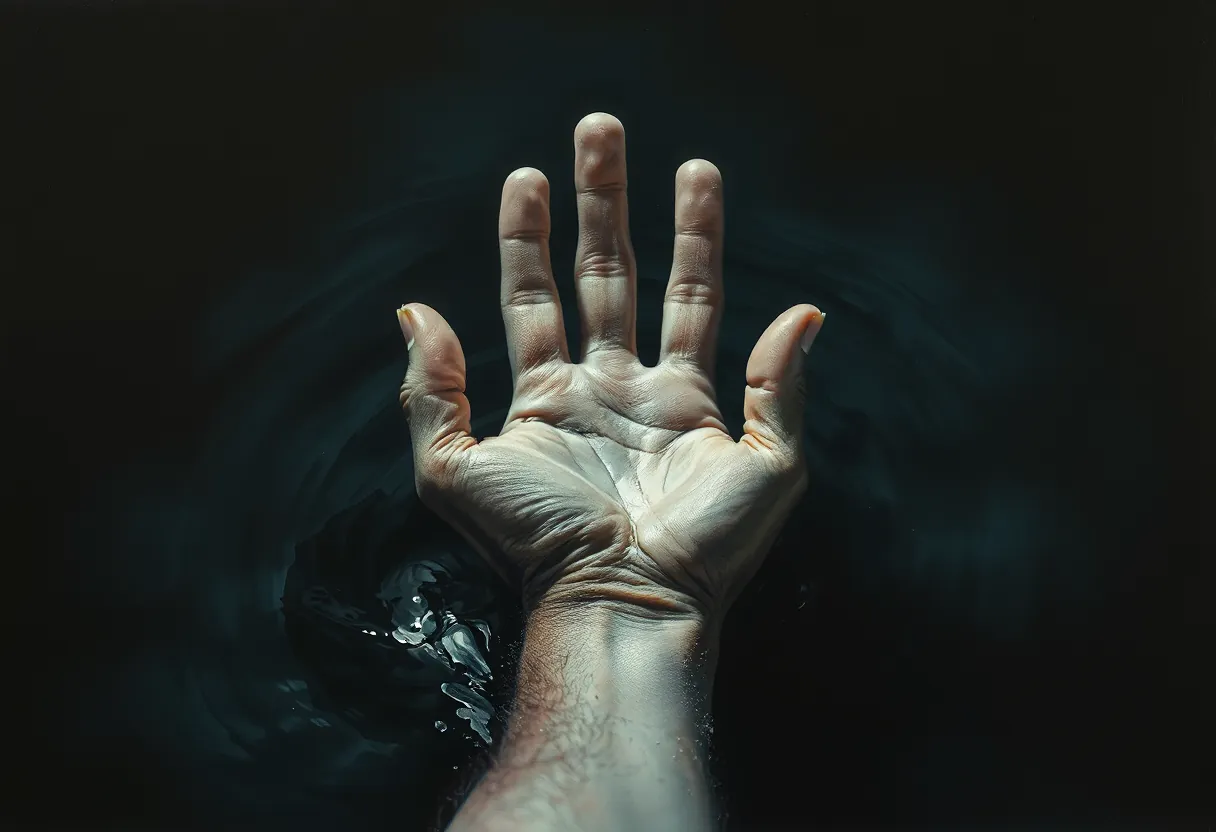
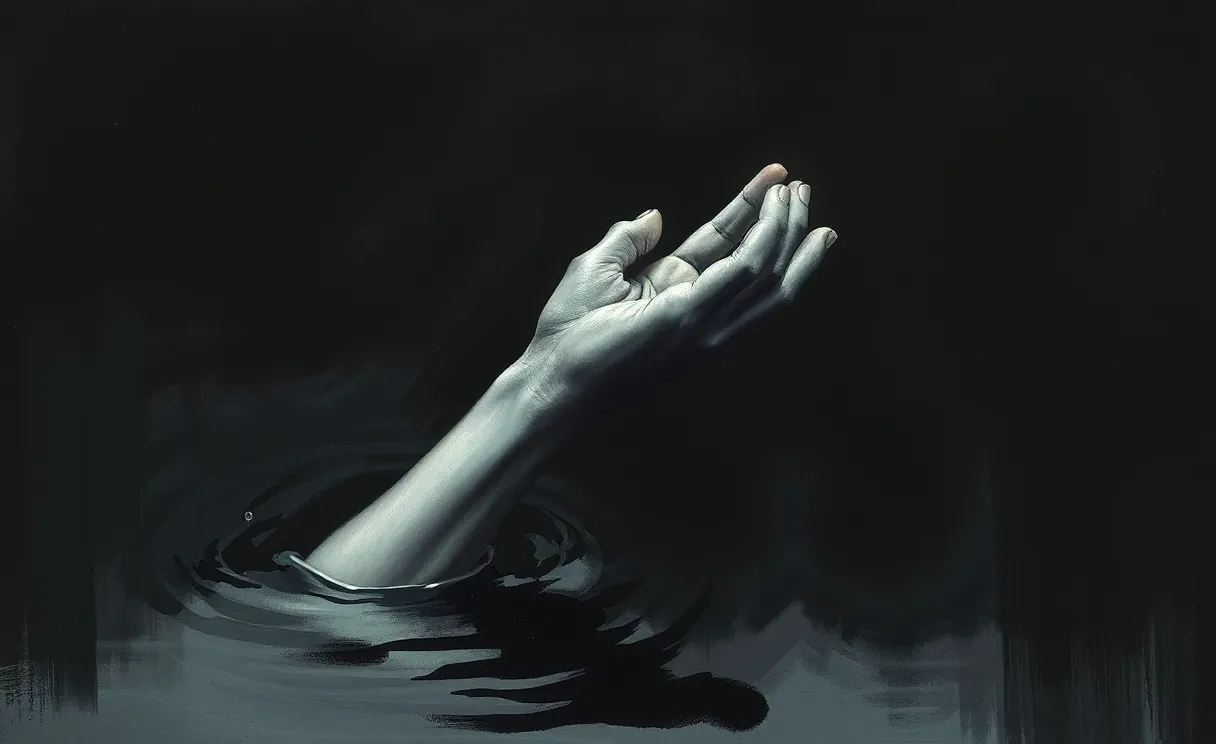
Eleven Paces round 3: the boy goes into the dark, his line over a painting; a new grey hand; no rock in the fire
Door 2: the boy runs past the edge of the light and the dark takes him; his
line is a voice from the dark over a painting of him running off barefoot
(Draw Things, no face), with the empty dark underneath if it can't load. The
reaching hand is a new painting, grey and painted, cropped clear of a fake
signature. The door's cells count as wall for the cave rock (def.solid), so
no shelf or drip of rock juts into the flames, and the fire's backing fades
from dark red to black so a low fire leaves no flat red panel.

Claude-Session: https://claude.ai/code/session_017vywRCZFCy2NNENDQ1fNkb

Changed region(s): [[0.0, 0.1237, 0.8438, 1.0], [0.9062, 0.8656, 0.9688, 1.0], [0.2188, 0.6801, 0.25, 0.711]]

diff --git a/index.html b/index.html
@@ -6095,7 +6095,7 @@ let t3tile=null;function t3tileTex(){if(t3tile)return t3tile;const cv=document.c
 /* ---- the diorama for each map ---- */
 function t3cave(Vb){const mp=Vb.mp,W=mp.W,H=mp.H,S=seeded(mp.key.length*977+31),rr=(a,b)=>a+(b-a)*S(),pk=a=>a[Math.floor(S()*a.length)],Q=T3Q.hi?1:.5,lot=p=>S()<p*Q,V3=(x,y,z)=>new THREE.Vector3(x,y,z);
   const stone=[],floor=[],roots=[],glow=[],ash=[],deep=[],keep=[],grit=[],tips=[];
-  const wall=(x,y)=>"#".includes(mp.c(x,y)),open=(x,y)=>!wall(x,y)&&x>=0&&y>=0&&x<W&&y<H;
+  const wall=(x,y)=>(mp.def.solid||"#").includes(mp.c(x,y)),open=(x,y)=>!wall(x,y)&&x>=0&&y>=0&&x<W&&y<H; // def.solid: cells that count as wall here (the door of fire, so no rock juts into the flames)
   t3w_cutSetup(Vb);
   const od=t3v_openDist(mp,4);
   for(let y=-5;y<H+5;y++)for(let x=-5;x<W+5;x++){const ch=(x<0||y<0||x>=W||y>=H)?"#":mp.c(x,y),c=Vb.cell(x,y);
@@ -12177,7 +12177,7 @@ Object.assign(MON,{
   // only for the cutscenes' captions (never on a board)
   boy:{name:"The boy",ini:"b",icon:"boy",hex:"#e0b98e",ac:10,hp:1,speed:6,init:0,size:1,sv:{},atk:[]}});
 Object.assign(CAVE_COST,{"4":1,"5":1,"6":1,"7":1,"8":1,"9":1});
-MAPS.idoor={kind:"idoor",light:[6,1],torches:[],rows:(()=>{const R=["#############","####FFFFF####","###.......###","##.........##","#...........#","#...........#","#...........#","#...........#","#...........#","##.........##","###.......###","####.....####","#############"];
+MAPS.idoor={kind:"idoor",light:[6,1],torches:[],solid:"#F",rows:(()=>{const R=["#############","####FFFFF####","###.......###","##.........##","#...........#","#...........#","#...........#","#...........#","#...........#","##.........##","###.......###","####.....####","#############"];
   // the black water rings out from the door: each square's digit is the round the water reaches it (9: the far end and beyond)
   return R.map((r,y)=>[...r].map((c,x)=>c!=="."?c:String(Math.min(9,Math.max(4-x,x-8,y-1,1)))).join(""));})()};
 T3_LOOK.idoor=Object.assign({},T3_LOOK.ifire,{fog:0x08090b,fogK:[1.05,2.5],bg:["#2a1208","#0a0706","#020203"],sky:0x56606c,ground:0x0d0c0b,fill:[.42,.85],
@@ -12341,7 +12341,7 @@ async function hvFace(o={}){const d3=!!(V&&B),st=hvU("stig"),fu=hvU("future");if
     {cam:{from:{at:Sx().add(new THREE.Vector3(.32,.3,.55)),yaw:1.2,pitch:.15,dist:1.4},to:{at:Sx().add(new THREE.Vector3(.32,.32,.55)),yaw:1.05,pitch:.12,dist:1.2},ms:3000,fov:30,tall:{fov:44}}},
     {at:S=>{B.sc.fl=4;},cam:{from:{pos:Sx().add(new THREE.Vector3(-.95,1.25,1.45)),look:hvAt("future",.7)},to:{pos:Sx().add(new THREE.Vector3(-.85,1.2,1.25)),look:hvAt("future",.72)},ms:3200,fov:32,tall:{fov:46}}},
     {at:S=>{B.sc.fl=5;S.shake(.035);hvDream(S,.7,800);},cam:{from:{pos:Sx().add(new THREE.Vector3(-.85,1.2,1.25)),look:hvAt("future",.72)},to:{pos:Sx().add(new THREE.Vector3(-.78,1.16,1.1)),look:hvAt("future",.72)},ms:3000,fov:[32,26],roll:.03,tall:{fov:[46,38]}}},
-    {at:S=>{const m=hvM("future"),s=hvM("stig");if(m&&s){const d=s.pos.clone().sub(m.pos).setY(0).normalize();m.lunge={dir:d,t:performance.now(),dur:1100,small:true};}S.flash("#bfe6ff55");hvSnd("heartbeat-one");B.sc.fl=1;hvPic(S,"stig-reach",{zoom:1.12,tone:{g:.85,b:.72,c:1.1}});},
+    {at:S=>{const m=hvM("future"),s=hvM("stig");if(m&&s){const d=s.pos.clone().sub(m.pos).setY(0).normalize();m.lunge={dir:d,t:performance.now(),dur:1100,small:true};}S.flash("#bfe6ff55");hvSnd("heartbeat-one");B.sc.fl=1;hvPic(S,"stig-reach",{zoom:1.1,pos:"55% 40%"});},
       cam:{from:{at:hvAt("future",.6,0,.5),yaw:1.57,pitch:.2,dist:3.2},to:{at:hvAt("future",.6,0,.5),yaw:1.45,pitch:.16,dist:2.7},ms:3200,fov:36,tall:{fov:52}}}]
   :[{at:()=>hvSnd("fire-still")},{},{at:()=>hvSnd("heartbeat-two")},{},{},{},{},{},{at:()=>hvSnd("heartbeat-one")}];
   plan.extra=hvDrift();
@@ -12378,16 +12378,14 @@ async function hvDoorCut(n,o={}){const d3=!!V,gid=k=>hvU(k),boy=()=>V&&V.hvBoy;
     {at:S=>{B.sc.fl=1;S.tween(3200,k=>{if(B)B.sc.warm=k;},null);hvDream(S,.6,2500);},cam:{from:{at:hvAt("future",.42),yaw:F2+.45,pitch:.12,dist:2},to:{at:hvAt("future",.44),yaw:F2+.3,pitch:.1,dist:1.7},ms:3400,fov:30,tall:{fov:44}}},
     {at:S=>{S.shake(.02);},cam:{from:{at:hvAt("future",.48),yaw:F2+.08,pitch:.08,dist:1.6},to:{at:hvAt("future",.5),yaw:F2,pitch:.06,dist:1.35},ms:3600,fov:[30,26],tall:{fov:[44,38]}}},
     {at:S=>{const u=gid("future");if(u){u.gone=true;renderTokens();}hvSnd("silence");},cam:{from:{at:hvC(8,3,.1),yaw:-.3,pitch:.5,dist:2.4},to:{at:hvC(8,3,.1),yaw:-.2,pitch:.6,dist:2.1},ms:3400,fov:34}},
-    // he lets go and runs: on a wide screen across the frame from Stig's side, Stig's arm in the foreground; on a phone over his shoulder, down the line the boy runs.
-    // He stops at the edge of the light with his back to us, and at the end looks back.
-    {at:S=>{const b=boy();if(b){b.look=null;b.mode="run";b.runSp=2.1;b.to=hvC(9.8,4.2);setTimeout(()=>{const sm=hvM("stig");if(!S.over&&b&&sm)b.look=Math.atan2(sm.pos.x-b.g.position.x,sm.pos.z-b.g.position.z);},3400);}
+    // he lets go and runs: out from behind Stig (Stig's shoulder in the foreground), up the line and past the edge of the light; the dark takes him
+    {at:S=>{const b=boy();if(b){b.look=null;b.mode="run";b.runSp=2.1;b.to=hvC(10.7,3.3);setTimeout(()=>{if(!S.over&&b)b.want=0;},2300);}
         hvSnd("heartbeat-one");setTimeout(()=>{if(!S.over)hvSnd("boy-run");},350);},
-      cam:{from:{pos:hvC(5.55,6.25,.6),look:hvC(7.2,4.5,.42)},to:{pos:hvC(5.6,6.15,.58),look:hvC(7.35,4.5,.42)},ms:4600,fov:36,
-        tall:{from:{pos:hvC(4.9,5.42,1.05),look:hvC(9.8,4.2,.3)},to:{pos:hvC(5.1,5.38,1),look:hvC(9.9,4.15,.32)},fov:52}}},
-    // his line, from the edge of the dark: wide, from behind Stig, the boy small and lit only at the edge; he goes on the last words
-    {at:S=>{const b=boy(),sm=hvM("stig"),P=hvC(9.8,4.2);if(b){if(b.g.position.distanceTo(P.setY(.03))>.3)b.g.position.copy(P);b.mode="stay";if(sm)b.look=Math.atan2(sm.pos.x-b.g.position.x,sm.pos.z-b.g.position.z);
-        setTimeout(()=>{if(S.over||!b)return;b.look=null;b.mode="run";b.runSp=1.7;b.to=hvC(10.6,3.2);setTimeout(()=>{if(b)b.want=0;},1500);},3300);}},
-      cam:{from:{pos:hvC(5,5.45,.95),look:hvC(9.8,4.2,.35)},to:{pos:hvC(5.35,5.38,.9),look:hvC(9.8,4.2,.35)},ms:3800,fov:30,tall:{fov:44}}},
+      cam:{from:{pos:hvC(5.55,6.25,.6),look:hvC(7.2,4.5,.42)},to:{pos:hvC(5.6,6.15,.58),look:hvC(7.5,4.3,.42)},ms:4600,fov:36,
+        tall:{from:{pos:hvC(4.9,5.42,1.05),look:hvC(9.8,4.2,.3)},to:{pos:hvC(5.1,5.38,1),look:hvC(10.2,3.9,.32)},fov:52}}},
+    // his line is a voice from the dark where he went: the painting of him running off (the camera eases toward the empty edge of the light underneath, if it can't load)
+    {at:S=>{const b=boy();if(b){b.want=0;b.mode="stay";}hvPic(S,"stig-boy",{zoom:1.06});},
+      cam:{from:{pos:hvC(5.2,5.8,.85),look:hvC(10.2,3.9,.35)},to:{pos:hvC(5.85,5.75,.8),look:hvC(10.4,3.8,.35)},ms:4200,fov:32,ease:"soft",tall:{fov:46}}},
     {at:S=>{hvVeil(S,"hv-dry");hvPic(S,"stig-dry",{zoom:1.06});},hold:4200},
     {at:S=>hvSnd("heartbeat-one"),hold:3000,black:true}]
   :[{},{},{},{},{at:()=>hvSnd("silence")},{at:()=>hvSnd("heartbeat-one")},{},{at:S=>hvVeil(S,"hv-dry"),hold:3600},{hold:3000,black:true}];
@@ -12583,7 +12581,9 @@ function t3dressDoor(Vb){const mp=Vb.mp,W=mp.W,H=mp.H,K=t3i_kit(Vb,1111),{rr,pk,
   if(sand.length)Vb.root.add(t3mesh(t3merge(sand),t3vmat({roughness:1}),{recv:true}));
   // the fire itself: a roar that hardly moves, in sheets one behind another, and tongues along the foot of it
   const fire=hvFireCurtain(Vb,cx,cz,wd,hi);
-  const back=new THREE.Mesh(new THREE.PlaneGeometry(wd,3),new THREE.MeshBasicMaterial({color:0x2a0a02}));back.position.set(cx,1.5,cz-.12);Vb.root.add(back);
+  // behind the flames: hot dark red at the foot, going to black at the lintel, so a low (listening) fire leaves no flat red panel
+  const bg=new THREE.PlaneGeometry(wd,3),bc=[];for(let i=0;i<bg.attributes.position.count;i++){const top=bg.attributes.position.getY(i)>0;bc.push(...(top?[.003,.001,0]:[.035,.006,.001]));}
+  bg.setAttribute("color",new THREE.Float32BufferAttribute(bc,3));const back=new THREE.Mesh(bg,new THREE.MeshBasicMaterial({vertexColors:true}));back.position.set(cx,1.5,cz-.12);Vb.root.add(back);
   const tongues=[];for(let i=0;i<5;i++)tongues.push(t3i_flame(Vb,cx+(i-2)*wd/5,.25,cz+.3,.55+.1*(i%2)));
   const pool=t3v_pool(Vb,cx,cz+2,9,0xff7a2a,.4);
   // steam where the black water meets the heat

diff --git a/source/chronicle.html b/source/chronicle.html
@@ -6061,7 +6061,7 @@ let t3tile=null;function t3tileTex(){if(t3tile)return t3tile;const cv=document.c
 /* ---- the diorama for each map ---- */
 function t3cave(Vb){const mp=Vb.mp,W=mp.W,H=mp.H,S=seeded(mp.key.length*977+31),rr=(a,b)=>a+(b-a)*S(),pk=a=>a[Math.floor(S()*a.length)],Q=T3Q.hi?1:.5,lot=p=>S()<p*Q,V3=(x,y,z)=>new THREE.Vector3(x,y,z);
   const stone=[],floor=[],roots=[],glow=[],ash=[],deep=[],keep=[],grit=[],tips=[];
-  const wall=(x,y)=>"#".includes(mp.c(x,y)),open=(x,y)=>!wall(x,y)&&x>=0&&y>=0&&x<W&&y<H;
+  const wall=(x,y)=>(mp.def.solid||"#").includes(mp.c(x,y)),open=(x,y)=>!wall(x,y)&&x>=0&&y>=0&&x<W&&y<H; // def.solid: cells that count as wall here (the door of fire, so no rock juts into the flames)
   t3w_cutSetup(Vb);
   const od=t3v_openDist(mp,4);
   for(let y=-5;y<H+5;y++)for(let x=-5;x<W+5;x++){const ch=(x<0||y<0||x>=W||y>=H)?"#":mp.c(x,y),c=Vb.cell(x,y);
@@ -12143,7 +12143,7 @@ Object.assign(MON,{
   // only for the cutscenes' captions (never on a board)
   boy:{name:"The boy",ini:"b",icon:"boy",hex:"#e0b98e",ac:10,hp:1,speed:6,init:0,size:1,sv:{},atk:[]}});
 Object.assign(CAVE_COST,{"4":1,"5":1,"6":1,"7":1,"8":1,"9":1});
-MAPS.idoor={kind:"idoor",light:[6,1],torches:[],rows:(()=>{const R=["#############","####FFFFF####","###.......###","##.........##","#...........#","#...........#","#...........#","#...........#","#...........#","##.........##","###.......###","####.....####","#############"];
+MAPS.idoor={kind:"idoor",light:[6,1],torches:[],solid:"#F",rows:(()=>{const R=["#############","####FFFFF####","###.......###","##.........##","#...........#","#...........#","#...........#","#...........#","#...........#","##.........##","###.......###","####.....####","#############"];
   // the black water rings out from the door: each square's digit is the round the water reaches it (9: the far end and beyond)
   return R.map((r,y)=>[...r].map((c,x)=>c!=="."?c:String(Math.min(9,Math.max(4-x,x-8,y-1,1)))).join(""));})()};
 T3_LOOK.idoor=Object.assign({},T3_LOOK.ifire,{fog:0x08090b,fogK:[1.05,2.5],bg:["#2a1208","#0a0706","#020203"],sky:0x56606c,ground:0x0d0c0b,fill:[.42,.85],
@@ -12307,7 +12307,7 @@ async function hvFace(o={}){const d3=!!(V&&B),st=hvU("stig"),fu=hvU("future");if
     {cam:{from:{at:Sx().add(new THREE.Vector3(.32,.3,.55)),yaw:1.2,pitch:.15,dist:1.4},to:{at:Sx().add(new THREE.Vector3(.32,.32,.55)),yaw:1.05,pitch:.12,dist:1.2},ms:3000,fov:30,tall:{fov:44}}},
     {at:S=>{B.sc.fl=4;},cam:{from:{pos:Sx().add(new THREE.Vector3(-.95,1.25,1.45)),look:hvAt("future",.7)},to:{pos:Sx().add(new THREE.Vector3(-.85,1.2,1.25)),look:hvAt("future",.72)},ms:3200,fov:32,tall:{fov:46}}},
     {at:S=>{B.sc.fl=5;S.shake(.035);hvDream(S,.7,800);},cam:{from:{pos:Sx().add(new THREE.Vector3(-.85,1.2,1.25)),look:hvAt("future",.72)},to:{pos:Sx().add(new THREE.Vector3(-.78,1.16,1.1)),look:hvAt("future",.72)},ms:3000,fov:[32,26],roll:.03,tall:{fov:[46,38]}}},
-    {at:S=>{const m=hvM("future"),s=hvM("stig");if(m&&s){const d=s.pos.clone().sub(m.pos).setY(0).normalize();m.lunge={dir:d,t:performance.now(),dur:1100,small:true};}S.flash("#bfe6ff55");hvSnd("heartbeat-one");B.sc.fl=1;hvPic(S,"stig-reach",{zoom:1.12,tone:{g:.85,b:.72,c:1.1}});},
+    {at:S=>{const m=hvM("future"),s=hvM("stig");if(m&&s){const d=s.pos.clone().sub(m.pos).setY(0).normalize();m.lunge={dir:d,t:performance.now(),dur:1100,small:true};}S.flash("#bfe6ff55");hvSnd("heartbeat-one");B.sc.fl=1;hvPic(S,"stig-reach",{zoom:1.1,pos:"55% 40%"});},
       cam:{from:{at:hvAt("future",.6,0,.5),yaw:1.57,pitch:.2,dist:3.2},to:{at:hvAt("future",.6,0,.5),yaw:1.45,pitch:.16,dist:2.7},ms:3200,fov:36,tall:{fov:52}}}]
   :[{at:()=>hvSnd("fire-still")},{},{at:()=>hvSnd("heartbeat-two")},{},{},{},{},{},{at:()=>hvSnd("heartbeat-one")}];
   plan.extra=hvDrift();
@@ -12344,16 +12344,14 @@ async function hvDoorCut(n,o={}){const d3=!!V,gid=k=>hvU(k),boy=()=>V&&V.hvBoy;
     {at:S=>{B.sc.fl=1;S.tween(3200,k=>{if(B)B.sc.warm=k;},null);hvDream(S,.6,2500);},cam:{from:{at:hvAt("future",.42),yaw:F2+.45,pitch:.12,dist:2},to:{at:hvAt("future",.44),yaw:F2+.3,pitch:.1,dist:1.7},ms:3400,fov:30,tall:{fov:44}}},
     {at:S=>{S.shake(.02);},cam:{from:{at:hvAt("future",.48),yaw:F2+.08,pitch:.08,dist:1.6},to:{at:hvAt("future",.5),yaw:F2,pitch:.06,dist:1.35},ms:3600,fov:[30,26],tall:{fov:[44,38]}}},
     {at:S=>{const u=gid("future");if(u){u.gone=true;renderTokens();}hvSnd("silence");},cam:{from:{at:hvC(8,3,.1),yaw:-.3,pitch:.5,dist:2.4},to:{at:hvC(8,3,.1),yaw:-.2,pitch:.6,dist:2.1},ms:3400,fov:34}},
-    // he lets go and runs: on a wide screen across the frame from Stig's side, Stig's arm in the foreground; on a phone over his shoulder, down the line the boy runs.
-    // He stops at the edge of the light with his back to us, and at the end looks back.
-    {at:S=>{const b=boy();if(b){b.look=null;b.mode="run";b.runSp=2.1;b.to=hvC(9.8,4.2);setTimeout(()=>{const sm=hvM("stig");if(!S.over&&b&&sm)b.look=Math.atan2(sm.pos.x-b.g.position.x,sm.pos.z-b.g.position.z);},3400);}
+    // he lets go and runs: out from behind Stig (Stig's shoulder in the foreground), up the line and past the edge of the light; the dark takes him
+    {at:S=>{const b=boy();if(b){b.look=null;b.mode="run";b.runSp=2.1;b.to=hvC(10.7,3.3);setTimeout(()=>{if(!S.over&&b)b.want=0;},2300);}
         hvSnd("heartbeat-one");setTimeout(()=>{if(!S.over)hvSnd("boy-run");},350);},
-      cam:{from:{pos:hvC(5.55,6.25,.6),look:hvC(7.2,4.5,.42)},to:{pos:hvC(5.6,6.15,.58),look:hvC(7.35,4.5,.42)},ms:4600,fov:36,
-        tall:{from:{pos:hvC(4.9,5.42,1.05),look:hvC(9.8,4.2,.3)},to:{pos:hvC(5.1,5.38,1),look:hvC(9.9,4.15,.32)},fov:52}}},
-    // his line, from the edge of the dark: wide, from behind Stig, the boy small and lit only at the edge; he goes on the last words
-    {at:S=>{const b=boy(),sm=hvM("stig"),P=hvC(9.8,4.2);if(b){if(b.g.position.distanceTo(P.setY(.03))>.3)b.g.position.copy(P);b.mode="stay";if(sm)b.look=Math.atan2(sm.pos.x-b.g.position.x,sm.pos.z-b.g.position.z);
-        setTimeout(()=>{if(S.over||!b)return;b.look=null;b.mode="run";b.runSp=1.7;b.to=hvC(10.6,3.2);setTimeout(()=>{if(b)b.want=0;},1500);},3300);}},
-      cam:{from:{pos:hvC(5,5.45,.95),look:hvC(9.8,4.2,.35)},to:{pos:hvC(5.35,5.38,.9),look:hvC(9.8,4.2,.35)},ms:3800,fov:30,tall:{fov:44}}},
+      cam:{from:{pos:hvC(5.55,6.25,.6),look:hvC(7.2,4.5,.42)},to:{pos:hvC(5.6,6.15,.58),look:hvC(7.5,4.3,.42)},ms:4600,fov:36,
+        tall:{from:{pos:hvC(4.9,5.42,1.05),look:hvC(9.8,4.2,.3)},to:{pos:hvC(5.1,5.38,1),look:hvC(10.2,3.9,.32)},fov:52}}},
+    // his line is a voice from the dark where he went: the painting of him running off (the camera eases toward the empty edge of the light underneath, if it can't load)
+    {at:S=>{const b=boy();if(b){b.want=0;b.mode="stay";}hvPic(S,"stig-boy",{zoom:1.06});},
+      cam:{from:{pos:hvC(5.2,5.8,.85),look:hvC(10.2,3.9,.35)},to:{pos:hvC(5.85,5.75,.8),look:hvC(10.4,3.8,.35)},ms:4200,fov:32,ease:"soft",tall:{fov:46}}},
     {at:S=>{hvVeil(S,"hv-dry");hvPic(S,"stig-dry",{zoom:1.06});},hold:4200},
     {at:S=>hvSnd("heartbeat-one"),hold:3000,black:true}]
   :[{},{},{},{},{at:()=>hvSnd("silence")},{at:()=>hvSnd("heartbeat-one")},{},{at:S=>hvVeil(S,"hv-dry"),hold:3600},{hold:3000,black:true}];
@@ -12549,7 +12547,9 @@ function t3dressDoor(Vb){const mp=Vb.mp,W=mp.W,H=mp.H,K=t3i_kit(Vb,1111),{rr,pk,
   if(sand.length)Vb.root.add(t3mesh(t3merge(sand),t3vmat({roughness:1}),{recv:true}));
   // the fire itself: a roar that hardly moves, in sheets one behind another, and tongues along the foot of it
   const fire=hvFireCurtain(Vb,cx,cz,wd,hi);
-  const back=new THREE.Mesh(new THREE.PlaneGeometry(wd,3),new THREE.MeshBasicMaterial({color:0x2a0a02}));back.position.set(cx,1.5,cz-.12);Vb.root.add(back);
+  // behind the flames: hot dark red at the foot, going to black at the lintel, so a low (listening) fire leaves no flat red panel
+  const bg=new THREE.PlaneGeometry(wd,3),bc=[];for(let i=0;i<bg.attributes.position.count;i++){const top=bg.attributes.position.getY(i)>0;bc.push(...(top?[.003,.001,0]:[.035,.006,.001]));}
+  bg.setAttribute("color",new THREE.Float32BufferAttribute(bc,3));const back=new THREE.Mesh(bg,new THREE.MeshBasicMaterial({vertexColors:true}));back.position.set(cx,1.5,cz-.12);Vb.root.add(back);
   const tongues=[];for(let i=0;i<5;i++)tongues.push(t3i_flame(Vb,cx+(i-2)*wd/5,.25,cz+.3,.55+.1*(i%2)));
   const pool=t3v_pool(Vb,cx,cz+2,9,0xff7a2a,.4);
   // steam where the black water meets the heat

diff --git a/CHANGELOG.md b/CHANGELOG.md
@@ -6,7 +6,7 @@ Tag each line: **New**, **Changed**, **Fixed** or **Lore**. Add the author in br
 
 ## Unreleased
 
-- **Changed** *The Eleven Paces*, round 3: the door of fire looks like fire, tongues frozen mid-break that hardly move, instead of a flat sheet. The boy lets go of Stig's hand and runs across the light into the dark, and says his last line from the edge of it. The paintings rise out of black instead of fading in over the minis. The reaching hand is grey, like the rest of him. "Far off: a cave, a lamp" opens a wider window on phones. On a wide screen the pinned strip with the paces now hides the words scrolling under it, all the way across. (Sam)
+- **Changed** *The Eleven Paces*, round 3: the door of fire looks like fire, tongues frozen mid-break that hardly move, instead of a flat sheet. The boy lets go of Stig's hand and runs up past him into the dark, and his last line comes out of the dark over a painting of him running barefoot. The paintings rise out of black instead of fading in over the minis. The reaching hand is a new painting, grey like the rest of him. "Far off: a cave, a lamp" opens a wider window on phones. On a wide screen the pinned strip with the paces now hides the words scrolling under it, all the way across. (Sam)
 - **Changed** In *The Eleven Paces* the sounds of the visions come through clearly: when one plays (the drip, the floorboards, the chimes, the spade, the chalk, the counting) the music and the room step back a little and let it through, in the fight too. (Sam)
 - **Changed** The cutscenes in *The Eleven Paces* play like film. The minis step off their plinths onto the floor, the grid goes, and the shots run on by themselves instead of waiting for a tap. New shots: the flake landing on Stig's sleeve, close; the boy running off into the dark; the crew seen from inside the fire; his sight going grey from the edges in; "...and me" as a calm medium shot. Three painted frames cut in at the turns: the hand rising out of black water, the keeper standing in the door of fire, and the dry towel by the lamp. (Sam)
 - **Fixed** *The Eleven Paces* sounds the way it was written. The sounds inside the story (the drip, the surf running backwards, the murmur under a spoken line, the whispers) now play as you read; before, they stayed silent. On an iPhone, sound now plays with the side switch on silent and wakes again after a call or the lock screen. The title card no longer fades over the first page, the paces count *One* and *Two* with you, and his future self no longer opens the fight calling himself thin when he is solid. (Sam)
